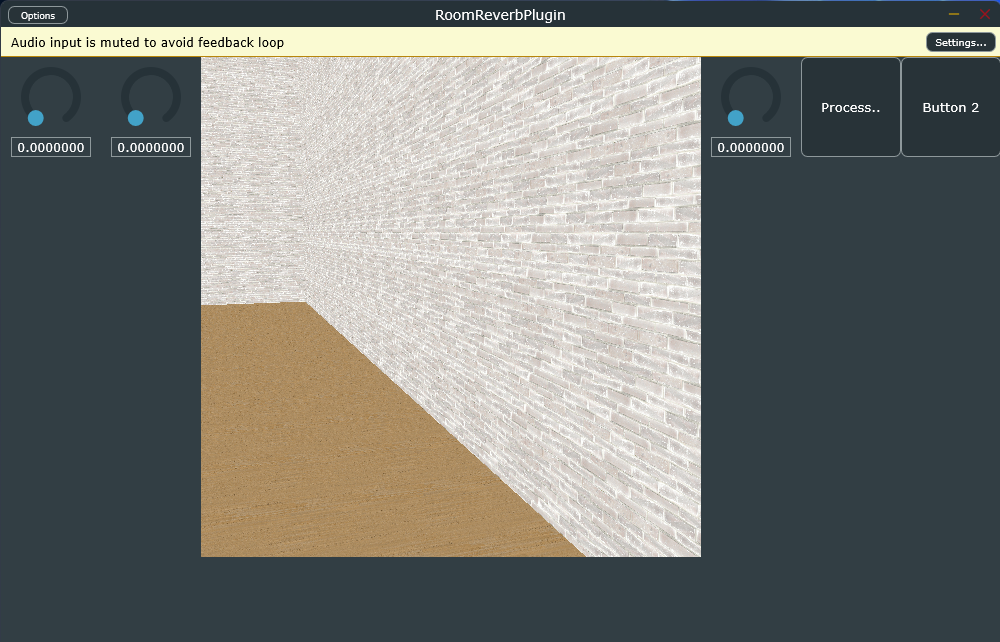
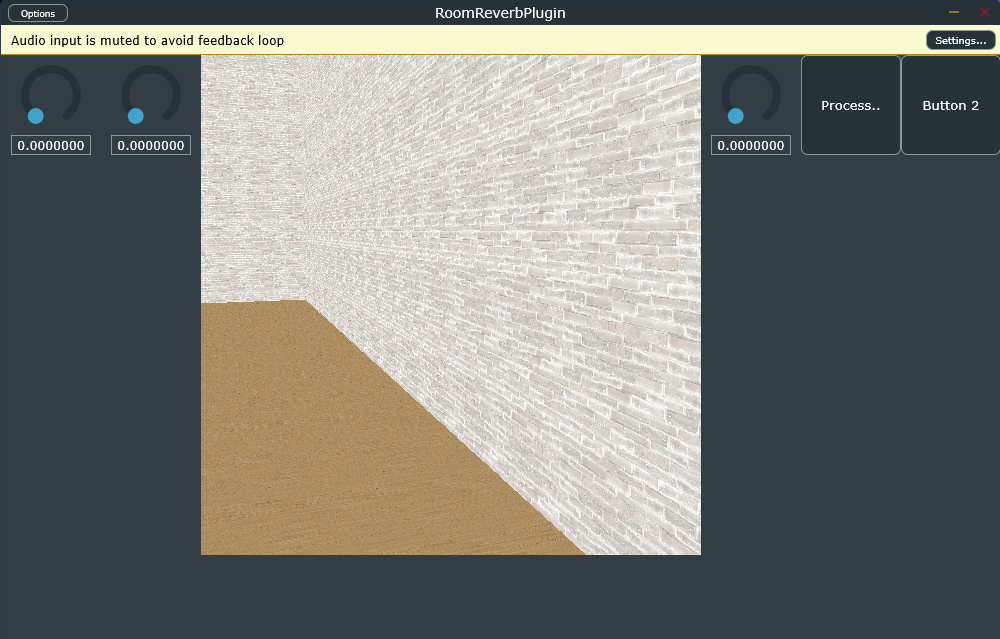
Edited screenshot and slight editor modification

diff --git a/Source/PluginEditor.cpp b/Source/PluginEditor.cpp
@@ -73,7 +73,7 @@ void RoomReverbPluginAudioProcessorEditor::paint (juce::Graphics& g)
 
     g.setColour (juce::Colours::white);
     g.setFont (juce::FontOptions (15.0f));
-    g.drawFittedText ("Hello World!", getLocalBounds(), juce::Justification::centredBottom, 1);
+    g.drawFittedText ("Please populate me!", getLocalBounds(), juce::Justification::centredBottom, 1);
 }
 
 void RoomReverbPluginAudioProcessorEditor::resized()
